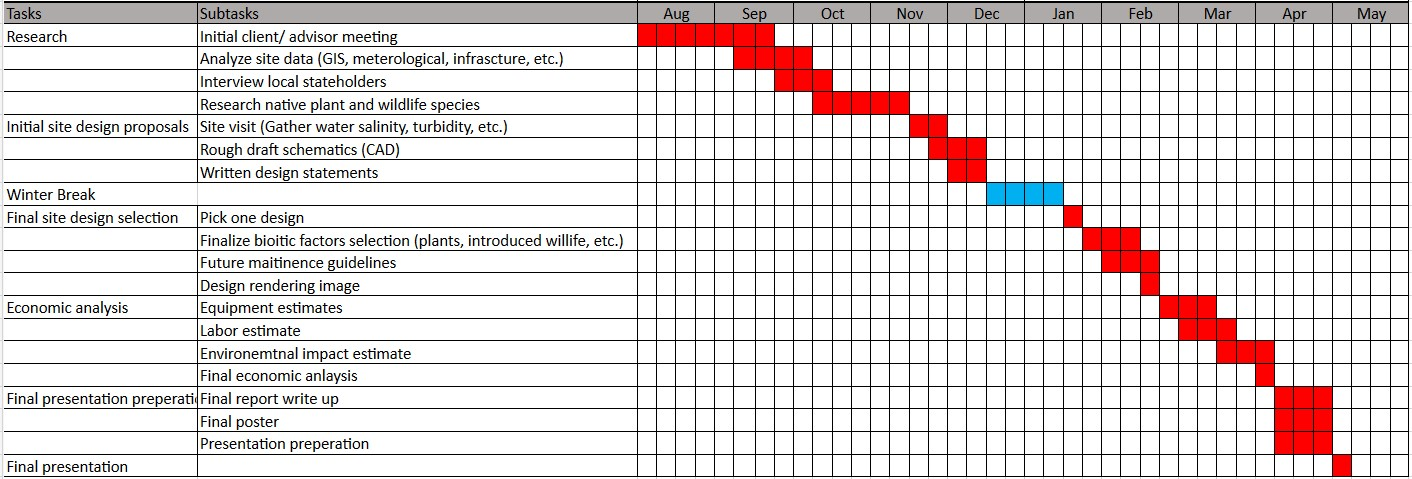
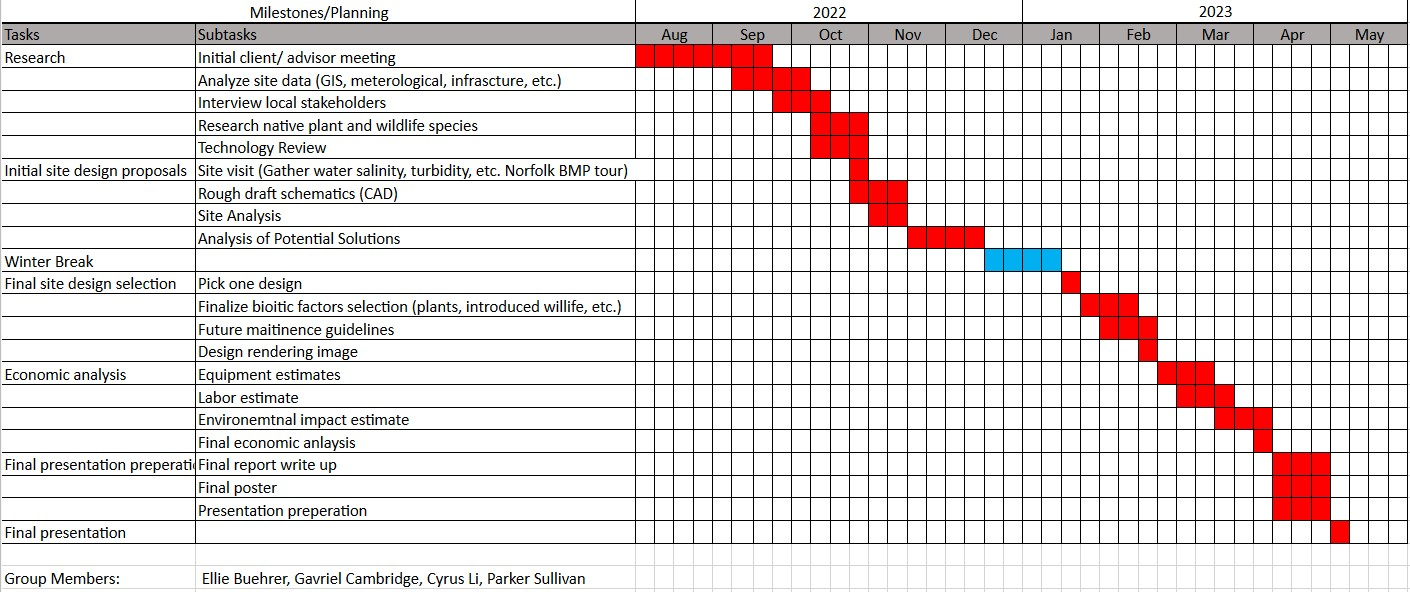
2:48

diff --git a/timeline.html b/timeline.html
@@ -5,7 +5,7 @@
         <meta name="viewport" content="width=device-width, initial-scale=1, shrink-to-fit=no" />
         <meta name="description" content="" />
         <meta name="author" content="" />
-        <title>Modern Business - Start Bootstrap Template</title>
+        <title>VT Creek Geeks</title>
         <!-- Favicon-->
         <link rel="icon" type="image/x-icon" href="assets/favicon.ico" />
         <!-- Bootstrap icons-->
@@ -39,7 +39,6 @@
                         <div class="col-lg-8 col-xxl-6">
                             <div class="text-center my-5">
                                 <h1 class="fw-bolder mb-3">Timeline</h1>
-                                <p class="lead fw-normal text-muted mb-4"></p>
                             </div>
                         </div>
                     </div>
@@ -49,10 +48,11 @@
             <section class="py-5 bg-light" id="scroll-target">
                 <div class="container px-5 my-5">
                     <div class="row gx-5 align-items-center">
-                        <div class="col-lg-6"><img class="img-fluid rounded mb-5 mb-lg-0" src="assets\ganttchart.jpg" alt="..." /></div>
-                        <div class="col-lg-6">
-                            <h2 class="fw-bolder">Proposed Gantt Chart (9/24/2023)</h2>
-                            <p class="lead fw-normal text-muted mb-0">Proposed Gantt chart</p>
+                        <div class="col-lg-10">
+                            <h2 class="fw-bolder">Updated Gantt Chart (10/6/2023)</h2>
+                            <img class="img-fluid rounded mb-5 mb-lg-0" src="assets\ganttchart.jpg" alt="..." /></div>
+                        <div class="col-lg-2">
+                            
                         </div>
                     </div>
                 </div>

diff --git a/index.html b/index.html
@@ -5,7 +5,7 @@
         <meta name="viewport" content="width=device-width, initial-scale=1, shrink-to-fit=no" />
         <meta name="description" content="" />
         <meta name="author" content="" />
-        <title>Modern Business - Start Bootstrap Template</title>
+        <title>VT Creek Geeks</title>
         <!-- Favicon-->
         <link rel="icon" type="image/x-icon" href="assets/favicon.ico" />
         <!-- Bootstrap icons-->
@@ -33,7 +33,7 @@
                 </div>
             </nav>
             <!-- Header-->
-            <header class="bg-dark bg-image py-5">
+            <header class="py-9", style="background-image:  url('assets/DJI_0818.JPG'); background-size: cover;">
             <!-- style="background-image:url(assets/skyline.jpg)" -->
                 <div class="container px-5">
                     <div class="row gx-5 align-items-center justify-content-center">
@@ -44,7 +44,6 @@
                             </div>
                         </div>
                         <div class="col-xl-5 col-xxl-6 d-none d-xl-block text-center">
-                            <img class="img-fluid my-5" src="assets/proposal.jpg">
                         </div>
                     </div>
                 </div>

diff --git a/cc.html b/cc.html
@@ -5,7 +5,7 @@
         <meta name="viewport" content="width=device-width, initial-scale=1, shrink-to-fit=no" />
         <meta name="description" content="" />
         <meta name="author" content="" />
-        <title>Modern Business - Start Bootstrap Template</title>
+        <title>VT Creek Geeks</title>
         <!-- Favicon-->
         <link rel="icon" type="image/x-icon" href="assets/favicon.ico" />
         <!-- Bootstrap icons-->

diff --git a/design.html b/design.html
@@ -5,7 +5,7 @@
         <meta name="viewport" content="width=device-width, initial-scale=1, shrink-to-fit=no" />
         <meta name="description" content="" />
         <meta name="author" content="" />
-        <title>Modern Business - Start Bootstrap Template</title>
+        <title>VT Creek Geeks</title>
         <!-- Favicon-->
         <link rel="icon" type="image/x-icon" href="assets/favicon.ico" />
         <!-- Bootstrap icons-->

diff --git a/final.html b/final.html
@@ -5,7 +5,7 @@
         <meta name="viewport" content="width=device-width, initial-scale=1, shrink-to-fit=no" />
         <meta name="description" content="" />
         <meta name="author" content="" />
-        <title>Modern Business - Start Bootstrap Template</title>
+        <title>VT Creek Geeks</title>
         <!-- Favicon-->
         <link rel="icon" type="image/x-icon" href="assets/favicon.ico" />
         <!-- Bootstrap icons-->

diff --git a/resources.html b/resources.html
@@ -5,7 +5,7 @@
         <meta name="viewport" content="width=device-width, initial-scale=1, shrink-to-fit=no" />
         <meta name="description" content="" />
         <meta name="author" content="" />
-        <title>Modern Business - Start Bootstrap Template</title>
+        <title>VT Creek Geeks</title>
         <!-- Favicon-->
         <link rel="icon" type="image/x-icon" href="assets/favicon.ico" />
         <!-- Bootstrap icons-->
